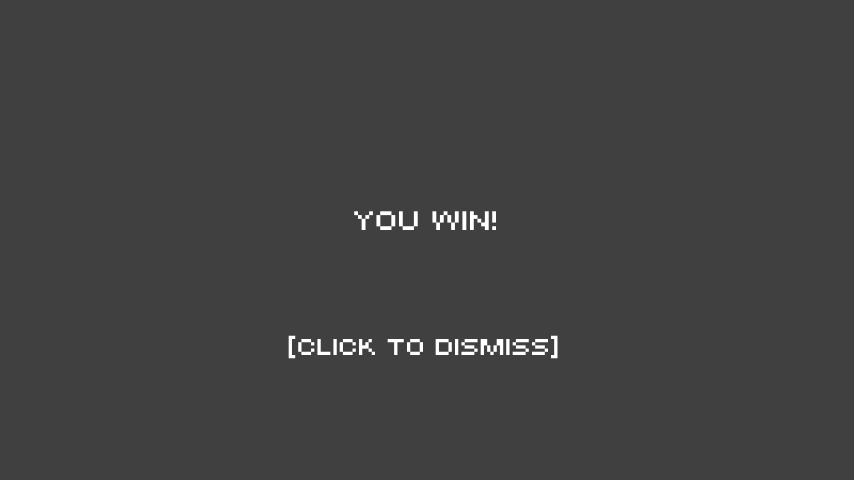
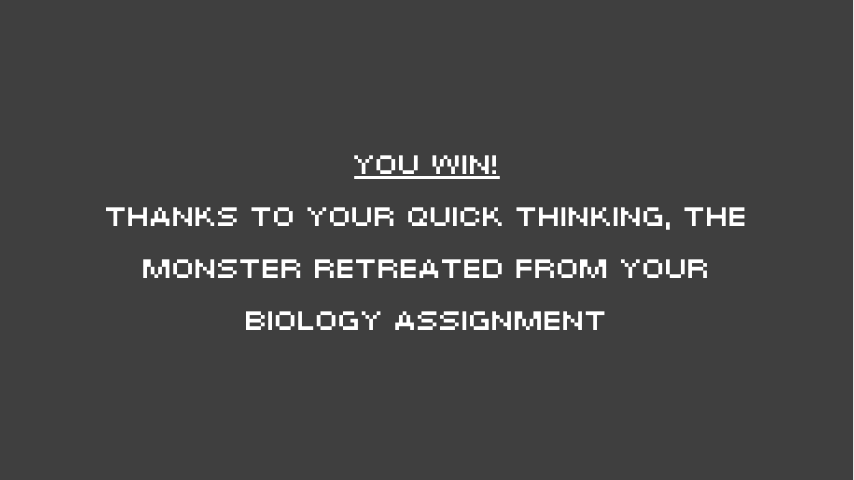
displayOverlays adjusted—pending Moyartu's pro Canva subscription so they can be transparent

diff --git a/src/analoghorror/rooms/HallwayRoom.java b/src/analoghorror/rooms/HallwayRoom.java
@@ -14,6 +14,7 @@ public class HallwayRoom extends Room{
     boolean playerDeath;
     boolean startDisplay;
     boolean introDisplay;
+    boolean youWin;
 
     Collectable primaryCursor;
     GreenChairsRoom greenChairsRoom;
@@ -39,6 +40,7 @@ public class HallwayRoom extends Room{
         introDisplay = false;
         piperDeath = false;
         playerDeath = false;
+        youWin = false;
         primaryCursor = hand;
         changeRoom = false;
         hasTextBeenShown = false;
@@ -94,9 +96,13 @@ public class HallwayRoom extends Room{
     
     @Override
     public void updateRoom() {
+        System.out.println("updateHallwayRoom called");
         ambientSound();
-        if (displayOverlay.getWidth() != 0) {
+        if (displayOverlay.getWidth() != 0 && !youWin) {
             displayOverlay.removeAll();
+        }
+        if (displayOverlay.getWidth() != 0 && youWin) {
+            scareDelay();
         }
         introDisplay();
         startDisplay();
@@ -110,6 +116,7 @@ public class HallwayRoom extends Room{
             System.out.println("They are dead");
             piperDeath = true;
             piper.piperEnd();
+            youWin();
             // killed
         }
         if (piper.getState() == 4) {  // or 5
@@ -177,13 +184,19 @@ public class HallwayRoom extends Room{
             displayOverlay.add(new Image("assets" + File.separator + "overlays" + File.separator + "start.png"));
             startDisplay = true;
         }
-
     }
 
     private void introDisplay(){
         if (startDisplay && !introDisplay) {
             displayOverlay.add(new Image("assets" + File.separator + "overlays" + File.separator + "intro.png"));
             introDisplay = true;
+        }
+    }
+
+    private void youWin(){
+        if (!youWin) {
+            displayOverlay.add(new Image("assets" + File.separator + "overlays" + File.separator + "youWin.png"));
+            youWin = true;
         }
     }
 }

diff --git a/src/analoghorror/inhabitants/Piper.java b/src/analoghorror/inhabitants/Piper.java
@@ -9,7 +9,8 @@ import analoghorror.rooms.HallwayRoom;
 
 public class Piper extends Item {
     HallwayRoom homeRoom;
-    Boolean startedFrameLoop;
+    boolean startedFrameLoop;
+    boolean piperDead;
     int numberOfFrameLoops;
     Timer frameTimer;
     TimerTask changeFrame;
@@ -21,6 +22,7 @@ public class Piper extends Item {
         frameDelay = 1000;
         homeRoom = hallway;
         startedFrameLoop = false;
+        piperDead = false;
         numberOfFrameLoops = 0;
         setStatePaths(Arrays.asList(
             "assets" + File.separator + "piper" + File.separator + "frame0.png",
@@ -47,7 +49,7 @@ public class Piper extends Item {
             currentState++;
             // System.out.println("State after ++ " + currentState);
             setImagePath(itemTextures.get(currentState));
-            if (itemStates == 4) {
+            if (itemStates == 4 && !piperDead) {
                 homeRoom.updateRoom();
             }
         }
@@ -71,6 +73,7 @@ public class Piper extends Item {
         }
     }
     public void piperEnd(){
+        piperDead = true;
         // stop all timers?
     }
 }

diff --git a/src/analoghorror/HorrorGame.java b/src/analoghorror/HorrorGame.java
@@ -16,6 +16,7 @@ public class HorrorGame {
     private boolean timerStarted;
     private boolean laptopSpawned;
     private boolean finalMonster;
+    private boolean bagpipeNoise;
 
     private double randomDouble;
     private long startTime;
@@ -44,6 +45,7 @@ public class HorrorGame {
         timerStarted = false;
         laptopSpawned = false;
         finalMonster = false;
+        bagpipeNoise = false;
         randomDouble = Math.random();
         canvas = new CanvasWindow("Biology Majors Be Like", CANVAS_WIDTH, CANVAS_HEIGHT);
         cursor = new GraphicsGroup();
@@ -112,6 +114,10 @@ public class HorrorGame {
                 }
             } else {
                 timerText.setText("");
+                if (!bagpipeNoise) {
+                    displayOverlay.add(new Image ("assets" + File.separator + "overlays" + File.separator + "bagpipeNoise.png"));
+                    bagpipeNoise = true;
+                }
                 // Play scary pipe scream
                 if (activeRoom == hallway && finalMonster == false) {
                     hallway.finalScare();
